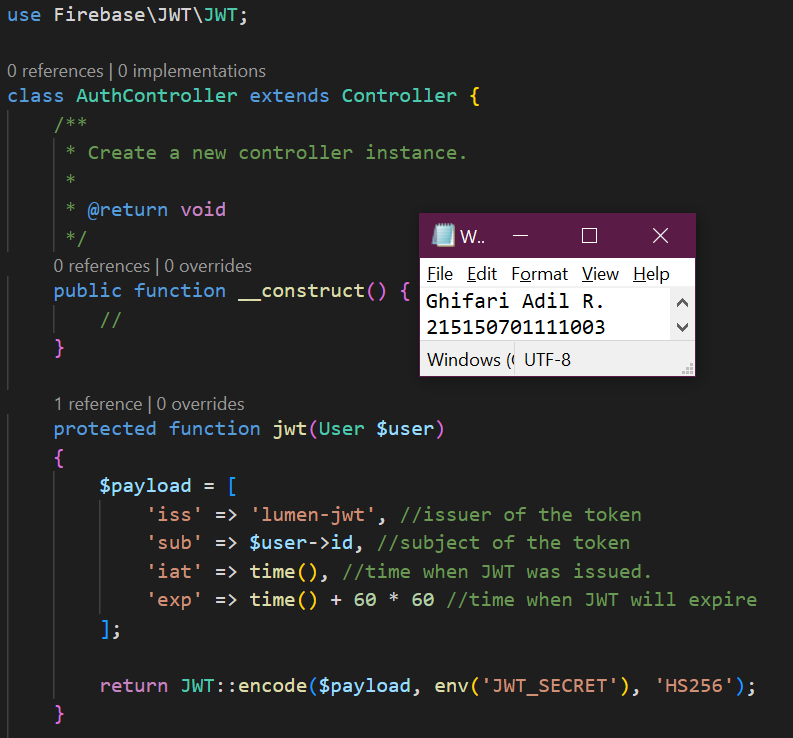
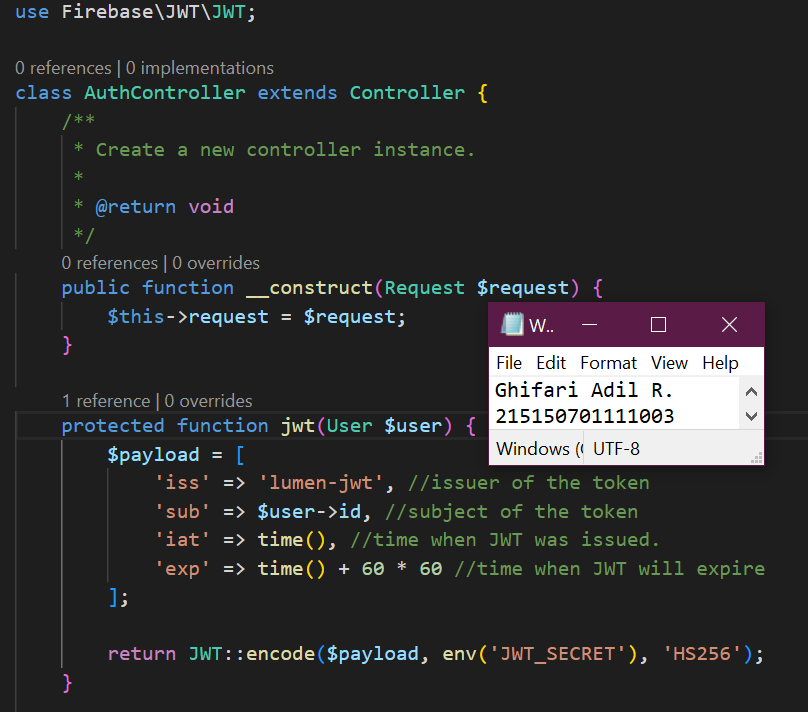
Bab 9 - JWT Library

diff --git a/Bab 9: JSON Web Token (JWT)/Laporan Praktikum Bab 9.md b/Bab 9: JSON Web Token (JWT)/Laporan Praktikum Bab 9.md
@@ -349,12 +349,244 @@
 
     <p align="center">
        <img src="pic/ss2-05.png" width=600></img><br>
-       <i>Gambar 2.5: Melakukan login dan mendapatkan token</i>
+       <i>Gambar 2.5: Melakukan login dan mendapatkan token JWT</i>
     </p>
 
 6. Jalankan aplikasi pada endpoint /home dengan melampirkan nilai token yang didapat setelah login pada header
 
     <p align="center">
        <img src="pic/ss2-06.png" width=600></img><br>
-       <i>Gambar 2.6: Masuk ke endpoint home dengan menggunakan JWT</i>
+       <i>Gambar 2.6: Masuk ke endpoint home dengan menggunakan token JWT</i>
+    </p>
+
+---
+
+## JWT Library
+1. Lakukan generate jwt key secara online menggunakan website Djecrety ― Django Secret Key Generator
+
+    <p align="center">
+       <img src="pic/ss3-01-1.png" width=500></img><br>
+       <i>Gambar 3.1: Membuat secret key menggunakan website Djecrety</i>
+    </p>
+
+    Setelah mendapatkan secret key kita akan memasukkan secret key tersebut pada file .env dengan membuat variable baru bernama `JWT_SECRET`
+
+    <p align="center">
+       <img src="pic/ss3-01-2.png" width=400></img><br>
+       <i>Gambar 3.2: Menambahkan secret key ke variable <code>JWT_SECRET</code> pada file .env</i>
+    </p>
+
+2. Lakukan instalasi package jwt firebase dengan menggunakan command berikut
+
+    ```
+    composer require firebase/php-jwt
+    ```
+
+    <p align="center">
+       <img src="pic/ss3-02.png" width=500></img><br>
+       <i>Gambar 3.3: Menginstall package JWT Firebase</i>
+    </p>
+
+3. Tambahkan fungsi berikut pada file AuthController
+
+    ```php
+    <?php
+
+    namespace App\Http\Controllers;
+
+    use App\Models\User;
+    use Illuminate\Http\Request;
+    use Illuminate\Support\Facades\Hash;
+    use Illuminate\Support\Str;
+
+    //
+    use Firebase\JWT\JWT;
+
+    class AuthController extends Controller
+    {
+        /**
+         * Create a new controller instance.
+         *
+         * @return void
+         */
+        public function __construct(Request $request) //
+        {
+            //
+            $this->request = $request;
+        }
+        //
+        protected function jwt(User $user)
+        {
+            $payload = [
+                'iss' => 'lumen-jwt', //issuer of the token
+                'sub' => $user->id, //subject of the token
+                'iat' => time(), //time when JWT was issued.
+                'exp' => time() + 60 * 60 //time when JWT will expire
+            ];
+            return JWT::encode($payload, env('JWT_SECRET'), 'HS256');
+        }
+
+        ...
+    }
+    ```
+
+    <p align="center">
+       <img src="pic/ss3-03.png" width=450></img><br>
+       <i>Gambar 3.4: Membuat fungsi JWT pada AuthController menggunakan library JWT Firebase</i>
+    </p>
+
+4. Lakukan perubahan pada fungsi login menjadi seperti berikut
+
+    ```php
+    <?php
+
+    namespace App\Http\Controllers;
+
+    use App\Models\User;
+    use Illuminate\Http\Request;
+    use Illuminate\Support\Facades\Hash;
+    use Illuminate\Support\Str;
+    //
+    use Firebase\JWT\JWT;
+
+    class AuthController extends Controller
+    {
+        ...
+
+        public function login(Request $request)
+        {
+            $email = $request->email;
+            $password = $request->password;
+
+            $user = User::where('email', $email)->first();
+
+            if (!$user) {
+                return response()->json([
+                    'status' => 'Error',
+                    'message' => 'user not exist',
+                ], 404);
+            }
+
+            if (!Hash::check($password, $user->password)) {
+                return response()->json([
+                    'status' => 'Error',
+                    'message' => 'wrong password',
+                ], 400);
+            }
+
+            $user->token = $this->jwt($user); //
+            $user->save();
+
+            return response()->json([
+                'status' => 'Success',
+                'message' => 'successfully login',
+                'data' => [
+                    'user' => $user,
+                ]
+            ], 200);
+        }
+    }
+    ```
+
+    <p align="center">
+       <img src="pic/ss3-04.png" width=450></img><br>
+       <i>Gambar 3.5: Mengubah fungsi login agar menggunakan Library JWT Firebase</i>
+    </p>
+
+5. Buatlah file JwtMiddleware.php dan isikan baris code berikut
+
+    ```php
+    <?php
+
+    namespace App\Http\Middleware;
+
+    use Closure;
+    use Exception;
+    use App\Models\User;
+    use Firebase\JWT\JWT;
+    use Firebase\JWT\Key;
+    use Firebase\JWT\ExpiredException;
+
+    class JwtMiddleware
+    {
+        function handle($request, Closure $next, $guard = null)
+        {
+            $token = $request->header('token') ?? $request->query('token');
+            // $token = $request->get('token');
+
+            if (!$token) {
+                //Unauthorized response if token not there
+                return response()->json([
+                    'error' => 'Token not provded.'
+                ], 401);
+            }
+
+            try {
+                $credentials = JWT::decode($token, new Key(env('JWT_SECRET'), 'HS256'));
+            } catch (ExpiredException $e) {
+                return response()->json([
+                    'error' => 'Provided token is expired.'
+                ], 400);
+            } catch (Exception $e) {
+                return response()->json([
+                    'error' => 'An error while decoding token.'
+                ], 400);
+            }
+
+            $user = User::find($credentials->sub);
+            
+            $request->user = $user;
+            return $next($request);
+        }
+    }
+    ```
+
+    <p align="center">
+       <img src="pic/ss3-05.png" width=450></img><br>
+       <i>Gambar 3.6: Membuat middleware baru bernama JWTMiddleware</i>
+    </p>
+
+6. Daftarkan middleware yang telah dibuat pada `bootstrap/app.php`
+
+    ```php
+    $app->routeMiddleware([
+        'jwt.auth' => App\Http\Middleware\JwtMiddleware::class,
+    ]);
+    ```
+
+    <p align="center">
+       <img src="pic/ss3-06.png" width=450></img><br>
+       <i>Gambar 3.7: Mendaftarkan JWTMiddleware ke <code>bootstrap/app.php</code> </i>
+    </p>
+
+7. Tambahkan baris berikut pada file web.php
+
+    ```php
+    $router->get('/home', ['middleware' => 'jwt.auth', 'uses' => 'HomeController@home']);
+    ```
+
+    <p align="center">
+       <img src="pic/ss3-07.png" width=450></img><br>
+       <i>Gambar 3.8: Menambah endpoint /home yang menggunakan JWTMiddleware </i>
+    </p>
+
+8. Jalankan aplikasi pada endpoint /auth/login dengan body berikut. Salinlah token yang didapat ke notepad
+
+    ```json
+    {
+        "email": "scaramouche@fatui.org",
+        "password": "wanderer"
+    }
+    ```
+
+    <p align="center">
+       <img src="pic/ss3-08.png" width=600></img><br>
+       <i>Gambar 3.9: Melakukan login dan mendapatkan token JWT baru</i>
+    </p>
+
+9. Jalankan aplikasi pada endpoint /home dengan melampirkan nilai token yang didapat setelah login pada header
+
+    <p align="center">
+       <img src="pic/ss3-09.png" width=600></img><br>
+       <i>Gambar 3.10: Masuk ke endpoint home dengan menggunakan token JWT baru</i>
     </p>
